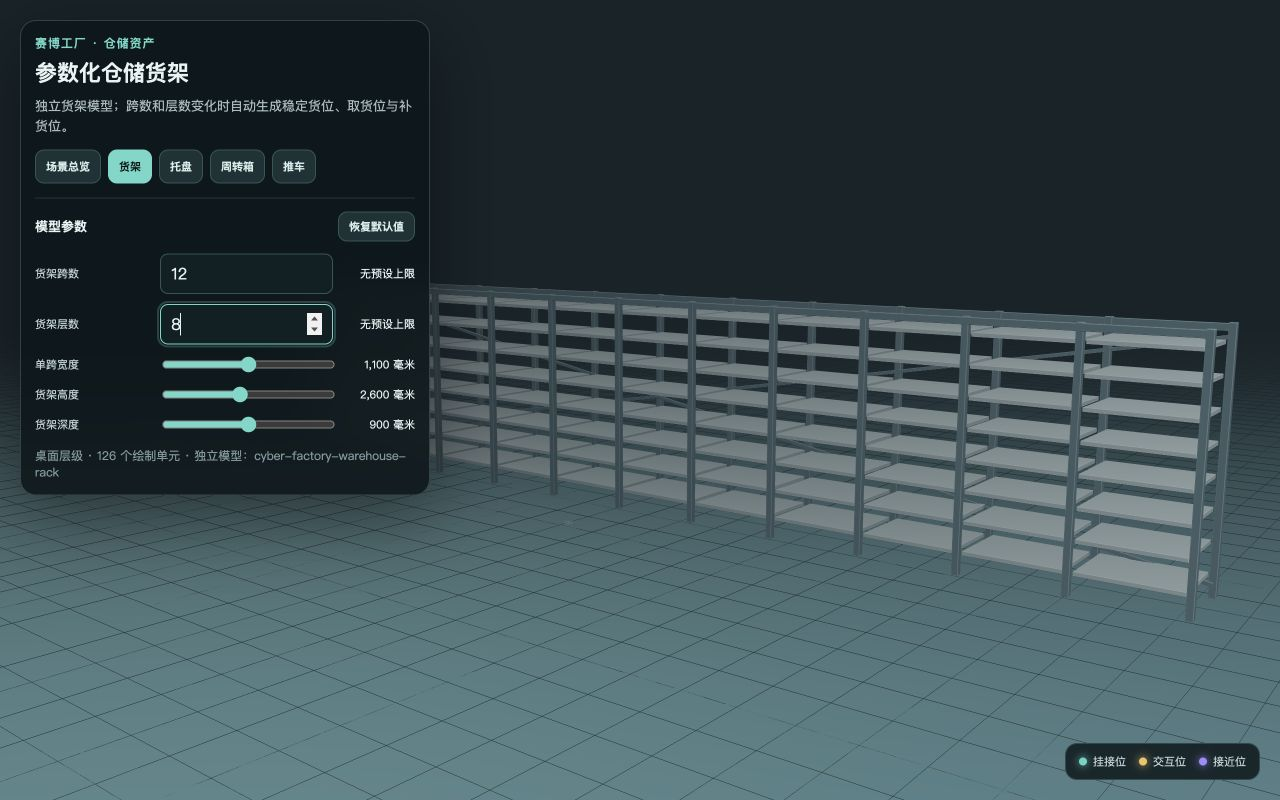
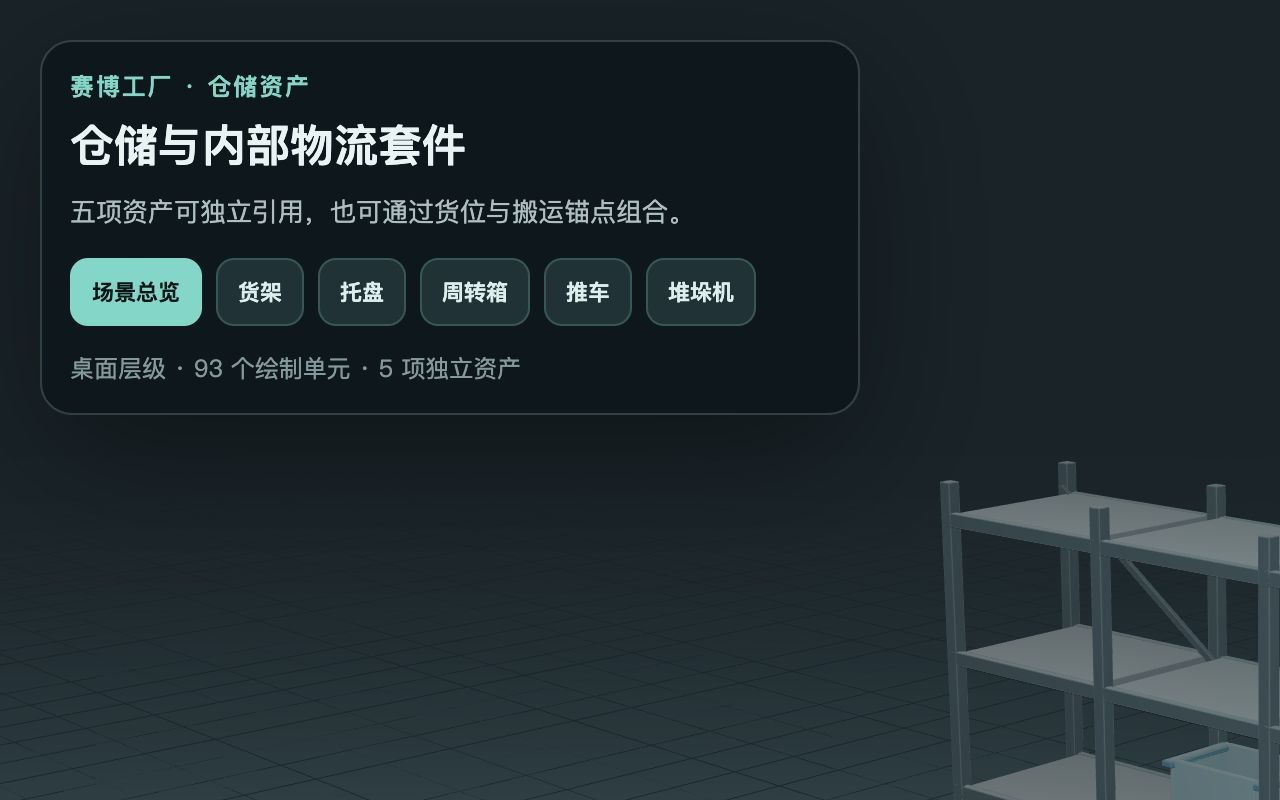
fix: align stacker with rack pick face

diff --git a/domain-packages/cyber-factory/models/warehouse/warehouse.test.ts b/domain-packages/cyber-factory/models/warehouse/warehouse.test.ts
@@ -4,6 +4,7 @@ import {
   createWarehouseCartDefinition,
   createWarehousePalletDefinition,
   createWarehouseRackDefinition,
+  createWarehouseStackerCrane,
   createWarehouseStackerCraneDefinition,
   createWarehouseToteDefinition,
   defaultWarehouseRackParameters,
@@ -67,6 +68,25 @@ describe("warehouse and internal logistics asset kit", () => {
     expect(definition.manifest.colliders.every(({ groupId }) => groupId !== warehouseGroupIds.rackStorage)).toBe(true);
   });
 
+  it("keeps the pick face open and aligns every steel beam with its shelf top", () => {
+    const graph = createWarehouseRackDefinition().createModel().featureGraph!;
+    expect(graph.features.some(({ id }) => id.includes("top-beam"))).toBe(false);
+    expect(graph.features.filter(({ id }) => id.includes("level-beam"))).toHaveLength(
+      defaultWarehouseRackParameters.levelCount * 2,
+    );
+    for (let level = 0; level < defaultWarehouseRackParameters.levelCount; level += 1) {
+      const suffix = String(level + 1).padStart(2, "0");
+      const shelf = graph.features.find(({ id }) => id === `warehouse-rack-shelf-b01-l${suffix}`);
+      const frontBeam = graph.features.find(({ id }) => id === `warehouse-rack-level-beam-front-l${suffix}`);
+      expect(shelf?.type).toBe("box");
+      expect(frontBeam?.type).toBe("box");
+      if (shelf?.type !== "box" || frontBeam?.type !== "box") continue;
+      expect(frontBeam.position[1] + frontBeam.parameters.height / 2).toBe(
+        shelf.position[1] + shelf.parameters.height / 2,
+      );
+    }
+  });
+
   it("keeps pallet fork access, tote content storage and cart transport semantics distinct", () => {
     const pallet = createWarehousePalletDefinition({ width: 1_200, depth: 1_000 });
     const tote = createWarehouseToteDefinition({ width: 700, height: 440 });
@@ -111,8 +131,8 @@ describe("warehouse and internal logistics asset kit", () => {
 
   it("uses a compact single-mast default that still reaches every slot in the default rack", () => {
     expect(defaultWarehouseStackerCraneParameters).toEqual({
-      railLength: 4_500,
-      mastHeight: 3_200,
+      railLength: 3_500,
+      mastHeight: 2_600,
       carriageWidth: 900,
       carriageDepth: 700,
       forkReach: 1_200,
@@ -120,11 +140,35 @@ describe("warehouse and internal logistics asset kit", () => {
     const graph = createWarehouseStackerCraneDefinition().createModel().featureGraph!;
     expect(graph.features.some(({ id }) => id === "warehouse-stacker-single-mast")).toBe(true);
     expect(graph.features.some(({ id }) => id === "warehouse-stacker-right-mast")).toBe(false);
-    expect(planWarehouseRetrieval(
+    const outerTopPlan = planWarehouseRetrieval(
       "warehouse-rack-slot-b03-l04",
       defaultWarehouseRackParameters,
       defaultWarehouseStackerCraneParameters,
-    )).toMatchObject({ valid: true });
+    );
+    expect(outerTopPlan).toMatchObject({ valid: true });
+    if (outerTopPlan.valid) {
+      expect(outerTopPlan.targetPose.liftY).toBe(warehouseRackShelfY(defaultWarehouseRackParameters, 3) + 74);
+    }
+  });
+
+  it("keeps retracted forks inside the carriage and extends only toward the rack", () => {
+    const retracted = createWarehouseStackerCrane(defaultWarehouseStackerCraneParameters, { forkExtension: 0 });
+    const extended = createWarehouseStackerCrane(defaultWarehouseStackerCraneParameters, { forkExtension: 900 });
+    const retractedFork = retracted.featureGraph!.features.find(({ id }) => id === "warehouse-stacker-left-fork");
+    const extendedFork = extended.featureGraph!.features.find(({ id }) => id === "warehouse-stacker-left-fork");
+    expect(retractedFork?.type).toBe("box");
+    expect(extendedFork?.type).toBe("box");
+    if (retractedFork?.type !== "box" || extendedFork?.type !== "box") return;
+    expect(retractedFork.parameters.depth).toBe(defaultWarehouseStackerCraneParameters.carriageDepth);
+    expect(retractedFork.position[2] - retractedFork.parameters.depth / 2).toBe(
+      -defaultWarehouseStackerCraneParameters.carriageDepth / 2,
+    );
+    expect(extendedFork.position[2] - extendedFork.parameters.depth / 2).toBe(
+      -defaultWarehouseStackerCraneParameters.carriageDepth / 2,
+    );
+    expect(extendedFork.position[2] + extendedFork.parameters.depth / 2).toBe(
+      defaultWarehouseStackerCraneParameters.carriageDepth / 2 + 900,
+    );
   });
 
   it("turns a stable rack slot id into a deterministic planned retrieval sequence", () => {
@@ -152,6 +196,12 @@ describe("warehouse and internal logistics asset kit", () => {
     ]);
     expect(plan.steps.find(({ id }) => id === "capture")?.plannedActions).toEqual(["attach-cargo"]);
     expect(plan.steps.find(({ id }) => id === "release")?.plannedActions).toEqual(["detach-cargo", "release-slot"]);
+    const maximumTravel = 14_000 / 2 - defaultWarehouseStackerCraneParameters.carriageWidth / 2 - 180;
+    expect(plan.steps.find(({ id }) => id === "deliver")?.pose.travelX).toBe(-maximumTravel);
+    expect(plan.steps.find(({ id }) => id === "release")?.pose.travelX).toBe(-maximumTravel);
+    expect(createWarehouseStackerCraneDefinition().manifest.anchors.find(
+      ({ id }) => id === "warehouse-stacker-outbound-socket",
+    )?.position[2]).toBe(0);
   });
 
   it("rejects malformed, missing and unreachable stacker targets without inventing availability", () => {

diff --git a/domain-packages/cyber-factory/models/warehouse/model.ts b/domain-packages/cyber-factory/models/warehouse/model.ts
@@ -100,8 +100,8 @@ export const defaultWarehouseCartParameters: WarehouseCartParameters = {
 };
 
 export const defaultWarehouseStackerCraneParameters: WarehouseStackerCraneParameters = {
-  railLength: 4_500,
-  mastHeight: 3_200,
+  railLength: defaultWarehouseRackParameters.bayCount * defaultWarehouseRackParameters.bayWidth + 200,
+  mastHeight: defaultWarehouseRackParameters.height,
   carriageWidth: 900,
   carriageDepth: 700,
   forkReach: 1_200,
@@ -269,15 +269,18 @@ export function createWarehouseRack(
     }
   }
 
-  for (const side of ["front", "back"] as const) {
-    structure.push(box(
-      `warehouse-rack-top-beam-${side}`,
-      `${side === "front" ? "前" : "后"}顶部横梁`,
-      [totalWidth + postSize, 72, 48],
-      [0, parameters.height - 46, side === "front" ? parameters.depth / 2 - 28 : -parameters.depth / 2 + 28],
-      metalAppearance,
-      5,
-    ));
+  for (let level = 0; level < parameters.levelCount; level += 1) {
+    const shelfY = warehouseRackShelfY(parameters, level);
+    for (const side of ["front", "back"] as const) {
+      structure.push(box(
+        `warehouse-rack-level-beam-${side}-l${String(level + 1).padStart(2, "0")}`,
+        `第 ${level + 1} 层${side === "front" ? "前" : "后"}承重横梁`,
+        [totalWidth + postSize, 72, 48],
+        [0, shelfY - 14, side === "front" ? parameters.depth / 2 - 28 : -parameters.depth / 2 + 28],
+        metalAppearance,
+        5,
+      ));
+    }
   }
 
   const braceLength = Math.hypot(totalWidth, parameters.height - 260);
@@ -486,7 +489,7 @@ export function normalizeWarehouseStackerCranePose(
   const maximumTravel = Math.max(0, parameters.railLength / 2 - parameters.carriageWidth / 2 - 180);
   return {
     travelX: clamp(input.travelX ?? defaultWarehouseStackerCranePose.travelX, -maximumTravel, maximumTravel),
-    liftY: clamp(input.liftY ?? defaultWarehouseStackerCranePose.liftY, 260, parameters.mastHeight - 240),
+    liftY: clamp(input.liftY ?? defaultWarehouseStackerCranePose.liftY, 260, parameters.mastHeight - 100),
     forkExtension: clamp(input.forkExtension ?? defaultWarehouseStackerCranePose.forkExtension, 0, parameters.forkReach),
   };
 }
@@ -532,11 +535,12 @@ export function createWarehouseStackerCrane(
     box("warehouse-stacker-carriage-left-guard", "载货台左护栏", [54, 330, parameters.carriageDepth], [pose.travelX - parameters.carriageWidth / 2 + 27, pose.liftY + 75, 0], stackerFrameAppearance, 10),
     box("warehouse-stacker-carriage-right-guard", "载货台右护栏", [54, 330, parameters.carriageDepth], [pose.travelX + parameters.carriageWidth / 2 - 27, pose.liftY + 75, 0], stackerFrameAppearance, 10),
   ];
-  const forkZ = parameters.carriageDepth / 2 - parameters.forkReach / 2 + pose.forkExtension;
+  const forkLength = parameters.carriageDepth + pose.forkExtension;
+  const forkZ = pose.forkExtension / 2;
   const forkFeatures: ModelFeature[] = [
-    box("warehouse-stacker-left-fork", "左伸缩货叉", [94, 58, parameters.forkReach], [pose.travelX - parameters.carriageWidth * 0.27, pose.liftY, forkZ], stackerForkAppearance, 10),
-    box("warehouse-stacker-right-fork", "右伸缩货叉", [94, 58, parameters.forkReach], [pose.travelX + parameters.carriageWidth * 0.27, pose.liftY, forkZ], stackerForkAppearance, 10),
-    box("warehouse-stacker-fork-crosshead", "货叉横梁", [parameters.carriageWidth * 0.72, 90, 120], [pose.travelX, pose.liftY + 12, -parameters.carriageDepth / 2 + 90 + pose.forkExtension], stackerForkAppearance, 12),
+    box("warehouse-stacker-left-fork", "左伸缩货叉", [94, 58, forkLength], [pose.travelX - parameters.carriageWidth * 0.27, pose.liftY, forkZ], stackerForkAppearance, 10),
+    box("warehouse-stacker-right-fork", "右伸缩货叉", [94, 58, forkLength], [pose.travelX + parameters.carriageWidth * 0.27, pose.liftY, forkZ], stackerForkAppearance, 10),
+    box("warehouse-stacker-fork-crosshead", "货叉横梁", [parameters.carriageWidth * 0.72, 90, 120], [pose.travelX, pose.liftY + 12, parameters.carriageDepth / 2 - 60 + pose.forkExtension], stackerForkAppearance, 12),
   ];
   return {
     name: "参数化巷道堆垛机",
@@ -603,6 +607,7 @@ export function planWarehouseRetrieval(
   const capturedPose = { ...targetPose };
   const retractedPose = { ...targetPose, forkExtension: 0 };
   const loweredPose = { ...retractedPose, liftY: home.liftY };
+  const outboundPose = { ...home, travelX: -maximumTravel };
   return {
     valid: true,
     slotId,
@@ -617,8 +622,8 @@ export function planWarehouseRetrieval(
       { id: "capture", label: "挂接目标货物", durationMs: 450, pose: capturedPose, plannedActions: ["attach-cargo"] },
       { id: "retract", label: "收回货叉", durationMs: 850, pose: retractedPose },
       { id: "lower", label: "下降到出库高度", durationMs: 1_100, pose: loweredPose },
-      { id: "deliver", label: "横移到出库位", durationMs: 1_200, pose: home },
-      { id: "release", label: "释放货物与货位", durationMs: 450, pose: home, plannedActions: ["detach-cargo", "release-slot"] },
+      { id: "deliver", label: "横移到左侧出库位", durationMs: 1_200, pose: outboundPose },
+      { id: "release", label: "在载货台内释放货物与货位", durationMs: 450, pose: outboundPose, plannedActions: ["detach-cargo", "release-slot"] },
     ],
   };
 }

diff --git a/domain-packages/cyber-factory/models/warehouse/preview.ts b/domain-packages/cyber-factory/models/warehouse/preview.ts
@@ -129,7 +129,7 @@ const assetConfigs: Record<AssetKey, AssetPreviewConfig> = {
   },
   stacker: {
     title: "参数化巷道堆垛机",
-    summary: "紧凑单立柱与 4.5 米短轨为默认配置；跨度、高度、载货台和货叉仍可按仓库参数扩展。",
+    summary: "轨道与立柱默认对齐三跨货架；跨度、高度、载货台和货叉仍可独立配置。",
     defaults: valuesOf(defaultWarehouseStackerCraneParameters),
     parameters: [
       { key: "railLength", label: "轨道长度", minimum: 3_500, maximum: 30_000, step: 500, unit: "毫米" },
@@ -256,7 +256,7 @@ function geometryFor(feature: ModelFeature) {
   return geometry;
 }
 
-function buildAsset(definition: ModelAssetDefinition, position: Vector3Tuple) {
+function buildAsset(definition: ModelAssetDefinition, position: Vector3Tuple, mirrorDepth = false) {
   const graph = definition.createModel().featureGraph!;
   const lod = definition.manifest.lod.find(({ device }) => device === quality)!.levels[0]!;
   const visible = new Set(lod.featureIds ?? graph.features.map(({ id }) => id));
@@ -272,6 +272,7 @@ function buildAsset(definition: ModelAssetDefinition, position: Vector3Tuple) {
     root.add(mesh);
   }
   root.position.set(...position);
+  root.scale.z = mirrorDepth ? -1 : 1;
   assetLayer.add(root);
   return visible.size;
 }
@@ -379,7 +380,7 @@ interface StackerAnimationState {
   lastRenderedAt: number;
 }
 
-const stackerRackPosition: Vector3Tuple = [0, 0, 1_500];
+const stackerRackPosition: Vector3Tuple = [0, 0, -1_500];
 let stackerPose: WarehouseStackerCranePose = { ...defaultWarehouseStackerCranePose };
 let stackerPlan: ValidWarehouseRetrievalPlan | null = null;
 let stackerAnimation: StackerAnimationState | null = null;
@@ -418,30 +419,30 @@ function renderStackerScene(
   const pallet = createWarehousePalletDefinition(defaultWarehousePalletParameters);
   const plan = activeStackerPlan();
   let drawUnits = buildAsset(rack, stackerRackPosition);
-  drawUnits += buildAsset(stacker, [0, 0, 0]);
+  drawUnits += buildAsset(stacker, [0, 0, 0], true);
   if (plan) {
     const shelfY = warehouseRackShelfY(rackParameters, plan.levelIndex) + 22;
     let cargoPosition: Vector3Tuple;
     if (cargoMode === "rack") {
       cargoPosition = [plan.targetPose.travelX, shelfY, stackerRackPosition[2]];
     } else if (cargoMode === "fork") {
-      cargoPosition = [pose.travelX, pose.liftY + 32, stackerParameters.carriageDepth / 2 + pose.forkExtension];
+      cargoPosition = [pose.travelX, pose.liftY + 32, -stackerParameters.carriageDepth / 2 - pose.forkExtension];
     } else {
-      cargoPosition = [0, defaultWarehouseStackerCranePose.liftY + 32, -stackerParameters.carriageDepth];
+      cargoPosition = [pose.travelX, pose.liftY + 32, 0];
     }
     drawUnits += buildAsset(pallet, cargoPosition);
     marker("#54D5C4", [
       plan.targetPose.travelX,
       shelfY + 120,
-      stackerRackPosition[2] - rackParameters.depth / 2 - 180,
+      stackerRackPosition[2] + rackParameters.depth / 2 + 180,
     ], 42);
   }
   if (resetCamera) {
     const railLength = stackerParameters.railLength;
     const distance = Math.max(5_800, railLength * 0.9, stackerParameters.mastHeight * 1.8);
     setCamera(
-      [distance * 0.8, Math.max(3_900, stackerParameters.mastHeight * 1.35), -distance],
-      [900, stackerParameters.mastHeight * 0.46, 700],
+      [distance * 0.8, Math.max(3_900, stackerParameters.mastHeight * 1.35), distance],
+      [900, stackerParameters.mastHeight * 0.46, -700],
       3_200,
       Math.max(18_000, railLength * 2.5),
     );
@@ -473,7 +474,7 @@ function updateStackerAnimation(timestamp: number) {
   }
   if (progress < 1) return;
   if (stackerAnimation.stepIndex === stackerAnimation.plan.steps.length - 1) {
-    stackerTaskStatus.textContent = `演示完成：${stackerAnimation.plan.slotId} 已运送到默认出库位。`;
+    stackerTaskStatus.textContent = `演示完成：${stackerAnimation.plan.slotId} 已运送到左侧载货台出库位。`;
     renderStackerScene(step.pose, "outbound", "取货演示完成");
     stackerAnimation = null;
     return;
@@ -491,8 +492,8 @@ function renderCurrentMode() {
   if (currentMode === "overview") {
     const drawUnits = renderOverview();
     assetTitle.textContent = "仓储与内部物流套件";
-    assetSummary.textContent = "六项资产可独立引用，也可通过货位与搬运锚点组合。";
-    metrics.textContent = `${quality === "mobile" ? "手机" : "桌面"}层级 · ${drawUnits} 个绘制单元 · 6 项独立资产`;
+    assetSummary.textContent = "五项资产可独立引用，也可通过货位与搬运锚点组合。";
+    metrics.textContent = `${quality === "mobile" ? "手机" : "桌面"}层级 · ${drawUnits} 个绘制单元 · 5 项独立资产`;
     return;
   }
 

diff --git a/domain-packages/cyber-factory/models/warehouse/manifest.ts b/domain-packages/cyber-factory/models/warehouse/manifest.ts
@@ -58,7 +58,7 @@ export function createWarehouseRackManifest(
   const detailIds = allIds.filter((id) => id.includes("back-brace"));
   const coreIds = allIds.filter((id) => !detailIds.includes(id));
   const collidable = boxFeatures(graph.features).filter((feature) => (
-    feature.id.includes("upright") || feature.id.includes("shelf-") || feature.id.includes("top-beam")
+    feature.id.includes("upright") || feature.id.includes("shelf-") || feature.id.includes("level-beam")
   ));
   const colliders = collidable.map((feature) => ({
     id: `${feature.id}-collider`,
@@ -365,7 +365,7 @@ export function createWarehouseStackerCraneManifest(
     schemaVersion: 1,
     id: "cyber-factory-warehouse-stacker-crane",
     displayName: "参数化巷道堆垛机",
-    description: "默认采用紧凑单立柱与 4.5 米短轨，并可按仓库跨度扩展的自动化仓储取放设备。",
+    description: "默认轨道宽度和立柱高度与三跨货架对齐，并可按仓库跨度扩展的自动化仓储取放设备。",
     version: "1.0.0",
     kind: "asset",
     modelUnit: "mm",
@@ -388,7 +388,7 @@ export function createWarehouseStackerCraneManifest(
     anchors: [
       { id: "warehouse-stacker-fork-load-socket", label: "货叉装载位", kind: "socket", position: [0, defaultWarehouseStackerCranePose.liftY + 34, parameters.carriageDepth / 2], rotation: [0, 0, 0], range: 620, groupId: warehouseGroupIds.stackerForks, tags: ["warehouse", "cargo", "planned-attachment"] },
       { id: "warehouse-stacker-control-panel", label: "堆垛机控制面板", kind: "interaction", position: [-parameters.carriageWidth * 0.34, 640, -parameters.carriageDepth * 0.65], rotation: [0, 0, 0], range: 720, featureId: "warehouse-stacker-control-cabinet", tags: ["warehouse", "automation", "planned-control"] },
-      { id: "warehouse-stacker-outbound-socket", label: "默认出库位", kind: "placement", position: [0, defaultWarehouseStackerCranePose.liftY, -parameters.carriageDepth], rotation: [0, 180, 0], range: 820, groupId: warehouseGroupIds.stackerCarriage, tags: ["warehouse", "outbound", "planned-attachment"] },
+      { id: "warehouse-stacker-outbound-socket", label: "载货台内出库放置位", kind: "placement", position: [0, defaultWarehouseStackerCranePose.liftY, 0], rotation: [0, 180, 0], range: 620, groupId: warehouseGroupIds.stackerCarriage, tags: ["warehouse", "outbound", "planned-attachment"] },
       { id: "warehouse-stacker-maintenance-approach", label: "堆垛机维护接近位", kind: "approach", position: [0, 0, -parameters.carriageDepth * 1.1], rotation: [0, 0, 0], range: 900, groupId: warehouseGroupIds.stackerTravelFrame, tags: ["warehouse", "maintenance", "navigation"] },
     ],
     joints: [],

diff --git a/domain-packages/cyber-factory/models/warehouse/preview.html b/domain-packages/cyber-factory/models/warehouse/preview.html
@@ -12,7 +12,7 @@
       <section class="panel" aria-label="资产信息">
         <p class="eyebrow">赛博工厂 · 仓储资产</p>
         <h1 id="asset-title">仓储与内部物流套件</h1>
-        <p id="asset-summary" class="summary">六项资产可独立引用，也可通过货位与搬运锚点组合。</p>
+        <p id="asset-summary" class="summary">五项资产可独立引用，也可通过货位与搬运锚点组合。</p>
         <nav class="asset-tabs" aria-label="预览模型">
           <button type="button" data-asset="overview" aria-pressed="true">场景总览</button>
           <button type="button" data-asset="rack" aria-pressed="false">货架</button>

diff --git a/domain-packages/cyber-factory/models/warehouse/README.md b/domain-packages/cyber-factory/models/warehouse/README.md
@@ -8,13 +8,13 @@
 - `cyber-factory-warehouse-pallet`：带顶部装载 socket 和前后货叉入口的木质托盘。
 - `cyber-factory-warehouse-tote`：带真实开放内腔、内容 socket 和双侧搬运锚点的塑料周转箱。
 - `cyber-factory-warehouse-cart`：带装载 socket、推行锚点、双层台面和四轮的物流推车。
-- `cyber-factory-warehouse-stacker-crane`：默认采用 4.5 米短轨与紧凑单立柱，也可参数化扩展轨道、高度、载货台和货叉；输入稳定格口 ID 后可生成确定性的九步取货计划。
+- `cyber-factory-warehouse-stacker-crane`：默认采用与三跨货架对齐的 3.5 米轨道和 2.6 米紧凑单立柱，也可参数化扩展轨道、高度、载货台和货叉；输入稳定格口 ID 后可生成确定性的九步取货计划。
 
-所有模型使用毫米、`+y` 向上、`+z` 朝正面，底面基准为 `y = 0`。资产可独立引用，也可在预览中组合成仓储场景。预览提供“场景总览”和六项独立资产标签页；进入单项资产后，可使用参数控件实时重建模型并恢复默认值。货架使用立柱、横梁和每层货板的分体碰撞体，不用整块碰撞体封死货位；移动 LOD 省略斜撑、握边或次要承载层。
+所有模型使用毫米、`+y` 向上、`+z` 朝正面，底面基准为 `y = 0`。资产可独立引用，也可在预览中组合成仓储场景。预览提供“场景总览”和五项独立资产标签页；进入单项资产后，可使用参数控件实时重建模型并恢复默认值。货架使用立柱、横梁和每层货板的分体碰撞体，不用整块碰撞体封死货位；移动 LOD 省略斜撑、握边或次要承载层。
 
 ## 堆垛机取货计划
 
-`planWarehouseRetrieval(slotId, rackParameters, craneParameters)` 接受形如 `warehouse-rack-slot-b03-l04` 的稳定格口 ID，校验货架范围、轨道横移行程和货叉伸出行程，然后生成预占、横移、升降、伸叉、挂接、收叉、下降、出库和释放九个确定性步骤。每一步都包含横移、升降和货叉伸出姿态，预览会按这些姿态演示完整取货过程。
+`planWarehouseRetrieval(slotId, rackParameters, craneParameters)` 接受形如 `warehouse-rack-slot-b03-l04` 的稳定格口 ID，校验货架范围、轨道横移行程和货叉伸出行程，然后生成预占、横移、升降、伸叉、挂接、收叉、下降、移动到左侧出库位和在载货台内释放九个确定性步骤。每一步都包含横移、升降和货叉伸出姿态，预览会按这些姿态演示完整取货过程。
 
 公共 `FeatureGraph` 当前没有直线关节，库存占用与 model-reference 挂接 API 也尚未交付，因此 manifest 不伪造可用 joints，动作计划中的预占、挂接和释放继续明确标记为 `planned`。本目录只负责稳定几何、运动分组、锚点和纯函数计划；正式运行时需要公共契约后续接入。
 
